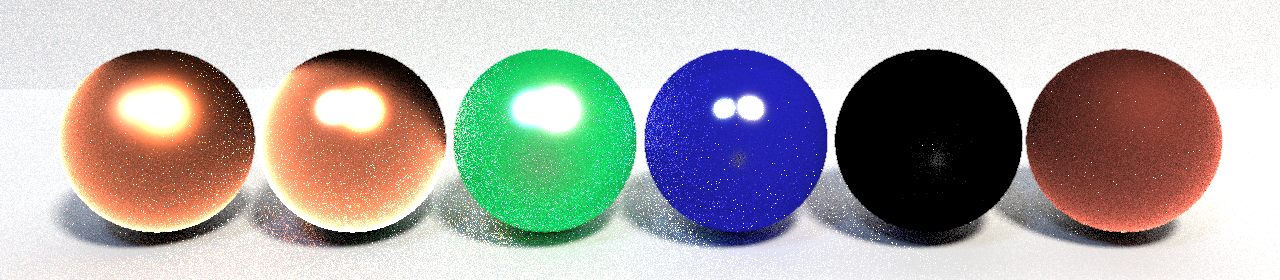
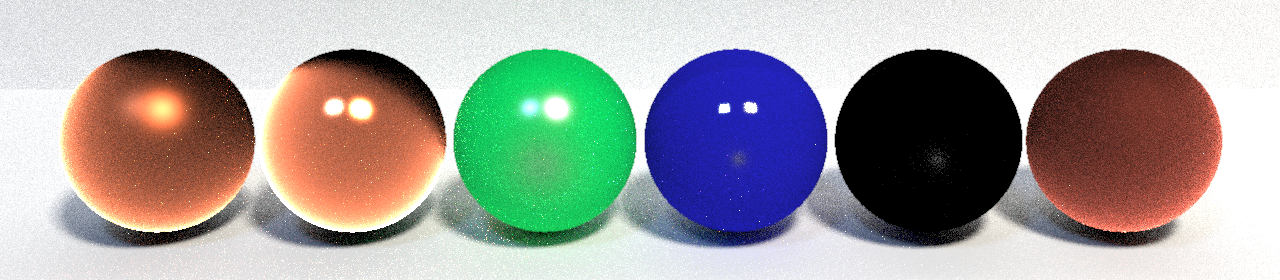
Significant improvement in specular but metallic needs some work

Changed region(s): [[0.0, 0.0, 0.9688, 1.0], [0.7188, 0.5143, 0.75, 0.6286], [0.5938, 0.1714, 0.625, 0.2]]

diff --git a/src/raytracer.cpp b/src/raytracer.cpp
@@ -1036,7 +1036,7 @@ glm::vec3 PathTracerFindColor(UniformGrid* grid, const Ray& ray, Scene* scene, C
 					// D term
 					float theta_h = glm::acos(glm::dot(halfVector, intersection.hitObjectNormal));
 
-					float DNumerator = (glm::pow(intersection.hitObjectRoughness, 2.0f));
+					float DNumerator = (glm::pow(intersection.hitObjectRoughness, 4.0f));
 					float DDenominator = ((float)M_PI * glm::pow(glm::cos(theta_h), 4.0f)) * glm::pow((glm::pow(intersection.hitObjectRoughness, 2.0f) + glm::pow(glm::tan(theta_h), 2.0f)), 2.0f);
 					float D = DNumerator / (float)(M_PI * DDenominator * DDenominator);
 					// G term
